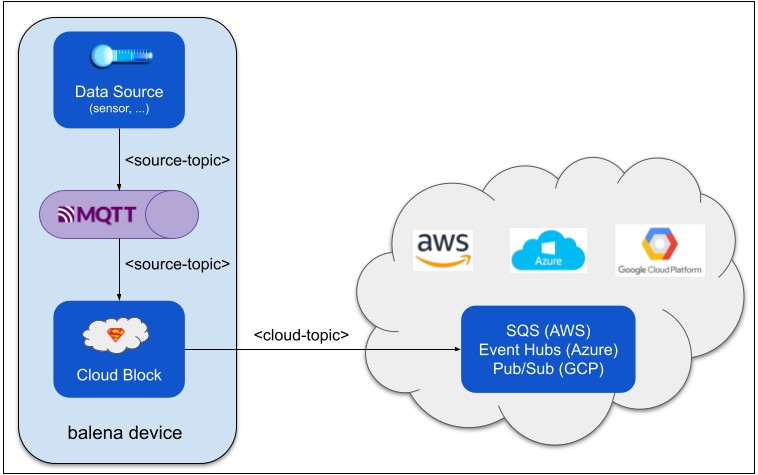
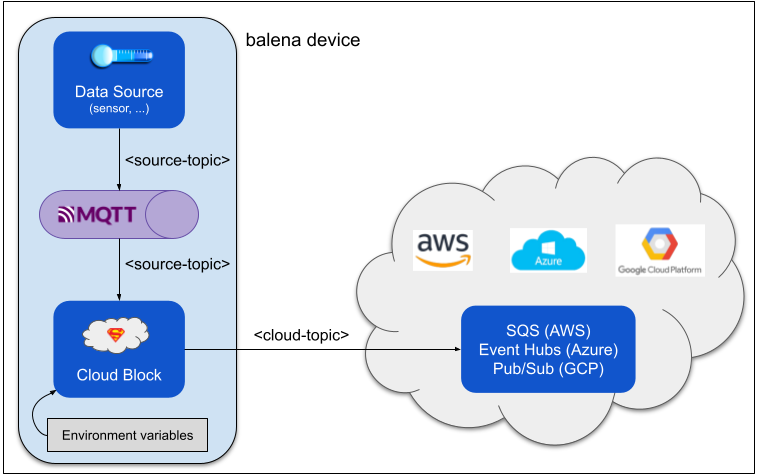
fixup! WIP continue cloud block documentation
Change-type: patch

Changed region(s): [[0.0607, 0.8547, 0.2731, 0.9726], [0.3034, 0.0589, 0.4855, 0.1179]]

diff --git a/pages/learn/develop/integrations/cloud-block.md b/pages/learn/develop/integrations/cloud-block.md
@@ -1,30 +1,62 @@
 # Cloud integrations via cloud block
 
-Cloud service providers like AWS offer valuable tools for collection and management of data, like message queues and data storage, but setup and use of these services is adapted to the cloud provider. At balena our mission is to reduce friction for our fleet owners. So we provide a *cloud block* container, whose aim is to provide an interface as consistent as possible for a fleet owner to push data to the cloud.
+Cloud service providers like AWS offer valuable tools for collection and management of data, like message queues and data storage, but often setup and use of these services is specific to the cloud provider. At balena our mission is to reduce friction for our fleet owners. So we provide a *cloud block* container, whose aim is to provide a simple, consistent interface to these services via environment variables.
 
-The diagram below shows how the cloud block forwards data to a cloud messaging service. On the left is a balena device with three containers, where a data source publishes data to MQTT on some *<source-topic>* topic, to which the cloud block also subscribes. The cloud block then uses a user supplied configuration to forward the data to the provider's message queue service.
+The diagram below shows how the cloud block forwards data to a cloud messaging service. On the left is a balena device with three containers, where a data source publishes data to MQTT on some source topic, to which the cloud block also subscribes. The cloud block then applies the user supplied configuration to forward the data to the provider's message queue service -- whether it's AWS SQS, Azure Event Hubs, or Google Pub/Sub.
 
 ![cloud-block-app](/img/integrations/cloud-block/cloud-block-app.png)
 
 The documentation below shows you how to implement this data flow.
 
- 1. Integrate the data source with the cloud block
- 2. Cloud service setup
- 3. Create required environment variables
- 4. Provision device
+ 1. Define data source and cloud block services for balena device
+ 1. Create balena application and environment variables
+ 1. Push service definitions to balenaCloud
+ 1. Provision device
 
-To illustrate how the cloud block works, we will use a data source that takes temperature readings from the device's CPU. These readings are readily available and do not require hardware or software setup.
+To illustrate how the cloud block works, we will use a data source that takes temperature readings from the device's CPU. These readings are readily available and do not require hardware or software setup. We will send these readings to AWS Simple Queue Service (SQS) as JSON data messages.
 
-## Integrate data source
+## Define device services
 
-Our goal is to push data to a source topic on an MQTT broker on the balena device. We then adapt the cloud block to subscribe to the source topic. We have created a [test application](https://github.com/kb2ma/cloudBlock-test/tree/main/cputemp) for the CPU temperature reader that does just that.
+As shown in the architecture diagram above, our goal is to push data to a source topic on an MQTT broker on the balena device. We then wire the cloud block to subscribe to the source topic. See the [example application](https://github.com/kb2ma/cloudBlock-test/tree/main/cputemp) for the CPU temperature reader that does just that.
 
-| File                                                                                                 | Discussion                                                                                                                                                                                                        |
-|------------------------------------------------------------------------------------------------------|-------------------------------------------------------------------------------------------------------------------------------------------------------------------------------------------------------------------|
-| [data_source/main.py](https://github.com/kb2ma/cloudBlock-test/blob/main/cputemp/data_source/main.py)| Takes a reading every 30 seconds, and publishes to the *cpu_temp* topic                                                                                                                                           |
-| [docker-compose.yml](https://github.com/kb2ma/cloudBlock-test/blob/main/cputemp/docker-compose.yml)  | Includes three containers -- *cloud* for the cloud block, *mqtt*, and *data_source*. Adapts the cloud block to subscribe to the *cpu_temp* topic used by *data_source* with the `MQTT_INPUT` environment variable.|
+As shown in the [docker-compose.yml](https://github.com/kb2ma/cloudBlock-test/blob/main/cputemp/docker-compose.yml) for our example application, you must define three containers as shown in the table below.
 
+| Service    | Notes                                                                                                                                                       |
+|------------|-------------------------------------------------------------------------------------------------------------------------------------------------------------|
+| data_source|Your service to generate data and publish to an MQTT topic                                                                                                   |
+| mqtt       |Generic broker image, like [eclipse-mosquitto](https://hub.docker.com/_/eclipse-mosquitto)                                                                   |
+| cloud      |                                                                                         balena block image that subscribes to `data_source` service messages|
 
+Later, you will push these service definitions to balena cloud as described below. Of course you may wish to push the services locally during development, as described in the balena Develop Locally instructions.
 
+### Data source
+For our example application, [data_source/main.py](https://github.com/kb2ma/cloudBlock-test/blob/main/cputemp/data_source/main.py) takes a temperature reading every 30 seconds, and publishes the reading to the *cpu_temp* topic. We must adapt the cloud block to subscribe to the *cpu_temp* topic used by the data source. By default the cloud block subscribes to the topic *cloud-block-input*. The default may be overridden by defining an environment variable, as shown in the next section.
 
+## Create application
+From your balenaCloud account, create a Microservices or Starter application as described in the balena Getting Started instructions. Next, you must define environment variables for the application that configure the cloud block, as described here. The configuration for the cloud block must identify the AWS SQS queue to use as well as the AWS Identity and Access Management (IAM) identity that is sending messages.
 
+### SQS variables
+These variables are specific to use of the AWS SQS service.
+
+| Variable         | Notes                                                                             |
+|------------------|-----------------------------------------------------------------------------------|
+|AWS_SQS_QUEUE_NAME|Name of the queue. Identified as `<cloud-topic>` in the architecture diagram above.|
+|AWS_SQS_REGION    |AWS region in which the queue is defined                                           |
+|AWS_SQS_ACCESS_KEY|IAM access key ID                                                                  |
+|AWS_SQS_SECRET_KEY|IAM secret key for access key                                                      |
+
+See the [SQS Developer Guide](https://docs.aws.amazon.com/AWSSimpleQueueService/latest/SQSDeveloperGuide/welcome.html) for help setting up the queue service. See the [IAM User Guide](https://docs.aws.amazon.com/IAM/latest/UserGuide/index.html) for help setting up the identity. The IAM User must at least be assigned the SQS SendMessage permission.
+
+### Cloud block variables
+These variables configure the cloud block on the balena device.
+
+| Variable              | Notes                                                                                                                                             |
+|-----------------------|---------------------------------------------------------------------------------------------------------------------------------------------------|
+|CLOUD_BLOCK_INPUT_TOPIC|MQTT topic to which the cloud block subscribes for messages from the data source. Identified as `<source-topic>` in the architecture diagram above.|
+|CLOUD_BLOCK_DEBUG      |Prints debug messages to the *cloud* service log                                                                                                   |
+
+## Push service definitions to balenaCloud
+Once you have defined the application, you may push the service definitions to balenaCloud with the `balena push` CLI command. See the balena Getting Started instructions for details.
+
+## Provision device
+Finally, provision a device with the application you creatd!
